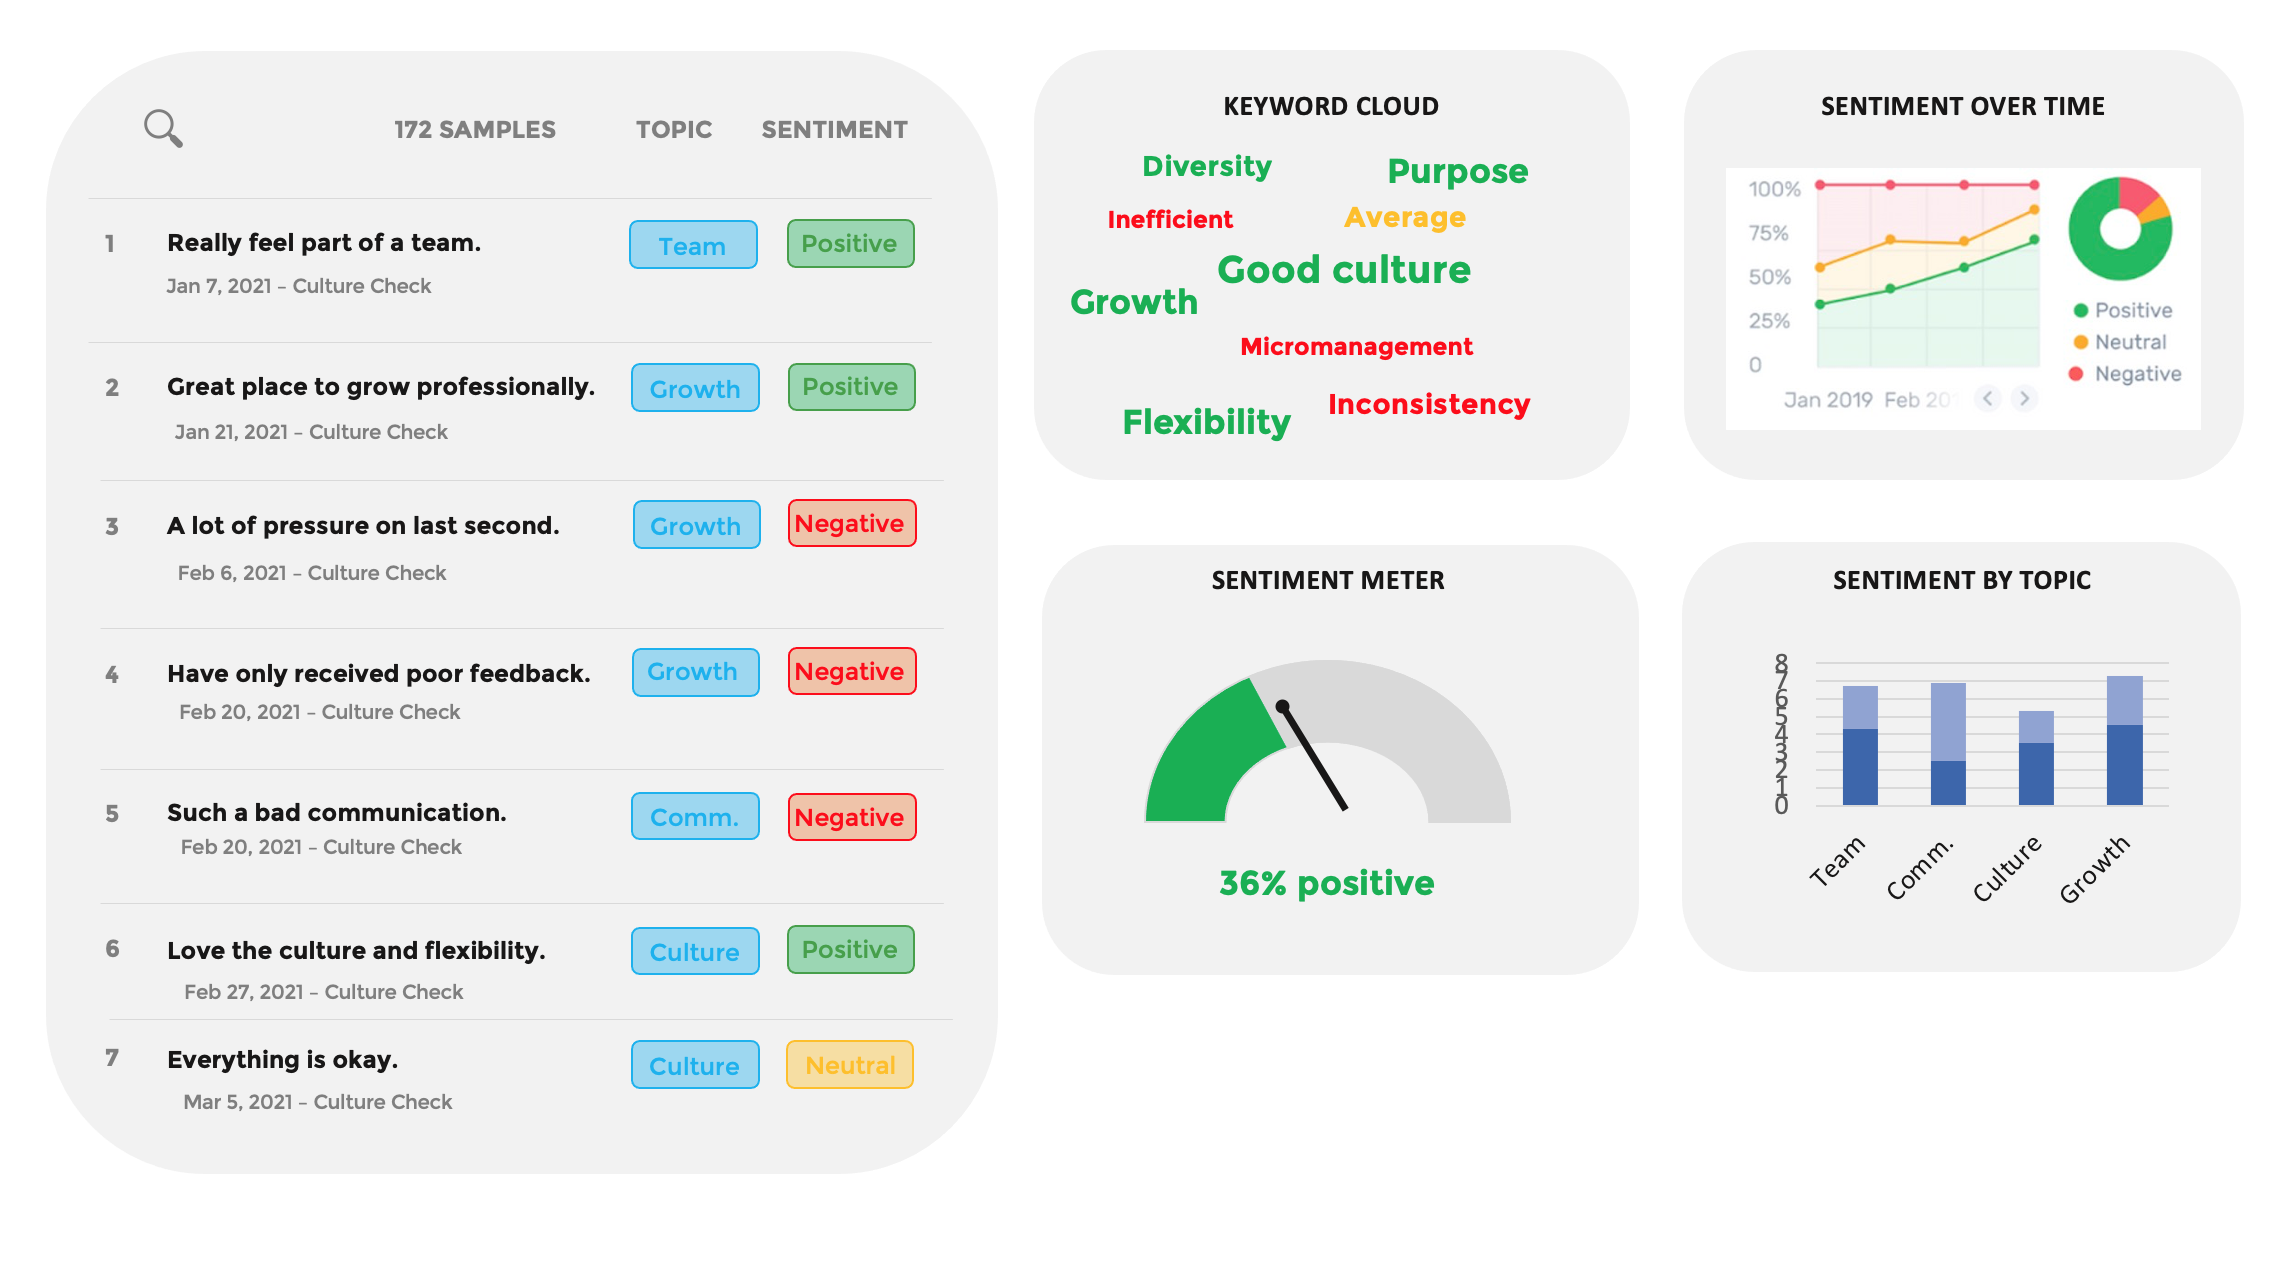
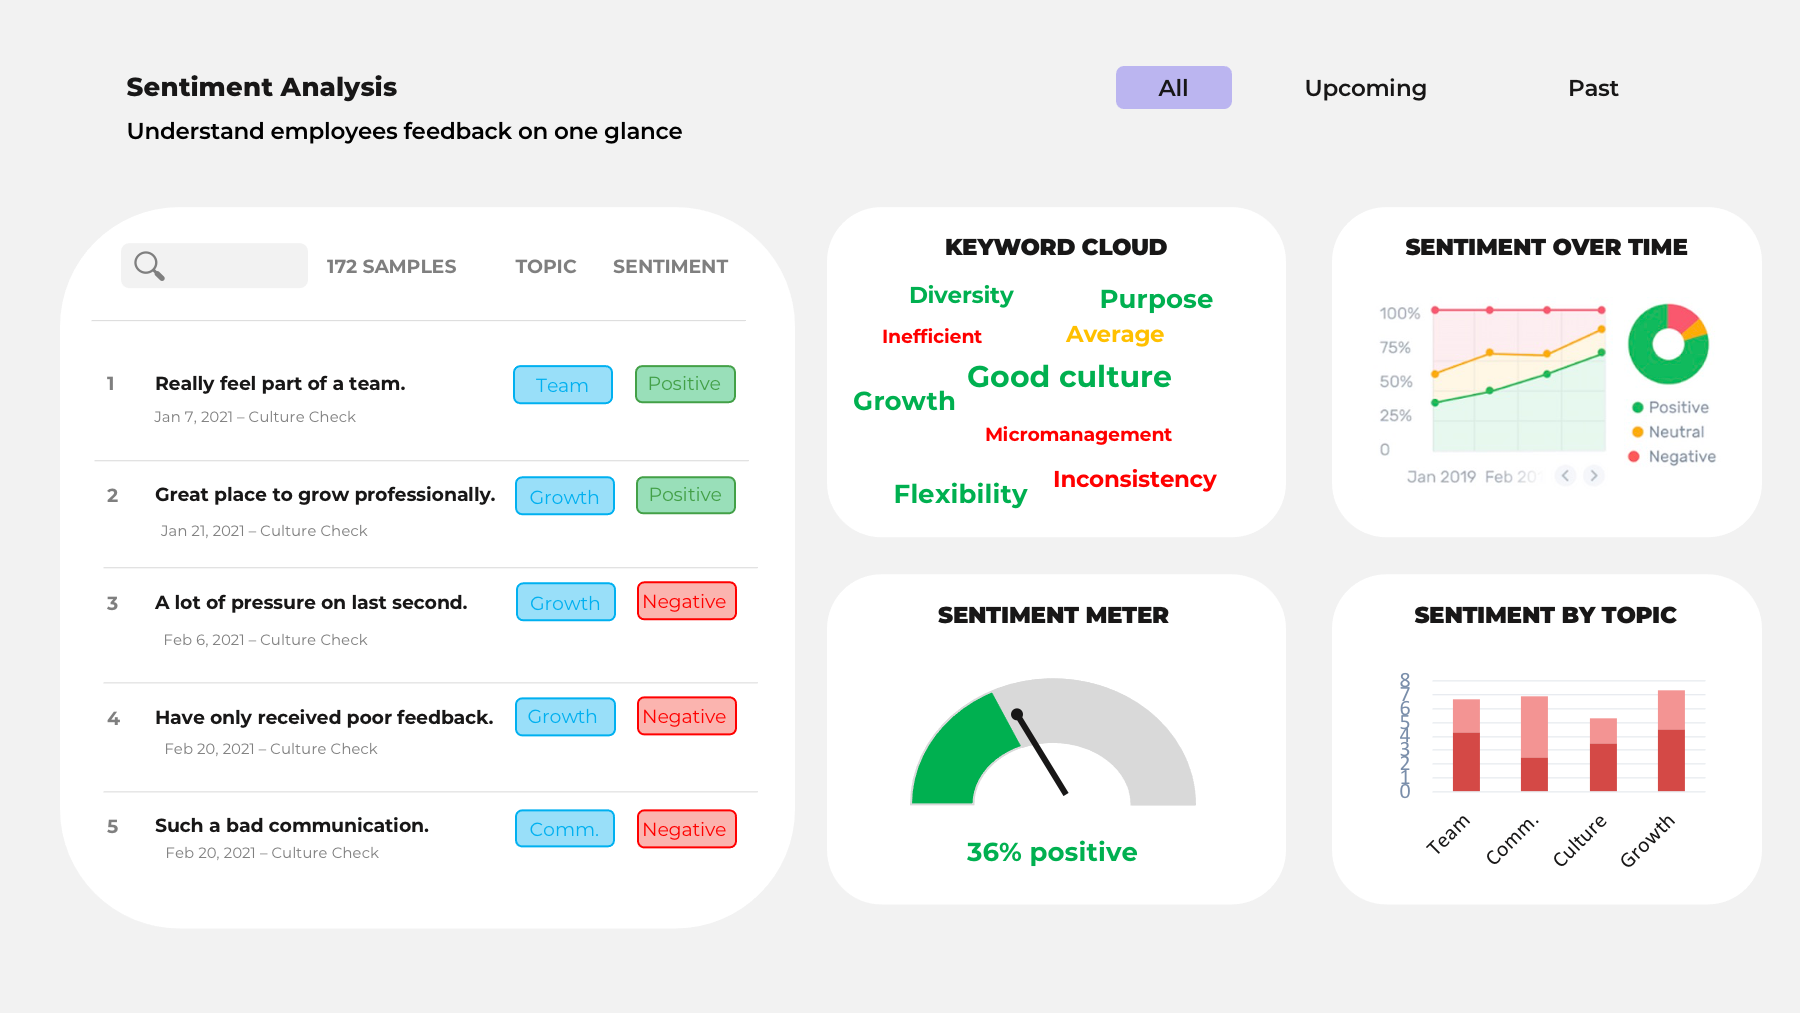
Basic production changes

diff --git a/src/pages/eventRecommendation/index.js b/src/pages/eventRecommendation/index.js
@@ -1,121 +1,145 @@
-import { useEffect, useState } from "react";
-import { Card, Col, Row, Space, Tooltip } from "antd";
-
-import {
-  LeftCircleFilled,
-  RightCircleFilled,
-  QuestionCircleOutlined,
-} from "@ant-design/icons";
-
-import {
-  getEventRecommendationSections,
-  getEventRecommendationCateogries,
-} from "actions";
-
-import EventRecommendationEventCard from "./eventCard";
-import EventRecommendationCategoryCard from "./categoryCard";
+import eventImg from "assets/images/event-recommendation.png";
 
 import "./style.scss";
 
-const PAGE_SIZE = 4;
-
 const EventRecommendation = () => {
-  const [loading, setLoading] = useState(true);
-  const [categories, setCategories] = useState([]);
-  const [
-    eventRecommendationSections,
-    setEventRecommendationSections,
-  ] = useState([]);
-  const [sectionPagination, setSectionPagination] = useState({});
-
-  useEffect(() => {
-    getEventRecommendationSections().then((response) => {
-      let pagination = {};
-      const { data } = response;
-      data.forEach((item) => {
-        pagination[item.slug] = 0;
-      });
-      setLoading(false);
-      setSectionPagination(pagination);
-      setEventRecommendationSections(data);
-    });
-
-    getEventRecommendationCateogries().then((response) => {
-      setCategories(response.data);
-    });
-  }, []);
-
-  function onPrevious(slug) {
-    if (sectionPagination[slug] !== 0) {
-      sectionPagination[slug] -= 1;
-      setSectionPagination({ ...sectionPagination });
-    }
-  }
-
-  function onNext(slug, count) {
-    const hasMore = (sectionPagination[slug] + 1) * PAGE_SIZE < count;
-    if (hasMore) {
-      sectionPagination[slug] += 1;
-      setSectionPagination({ ...sectionPagination });
-    }
-  }
 
   return (
-    <Card
-      bordered={0}
-      loading={loading}
-      className="no-padding event-recommendations max-container"
-    >
-      <div className="mb-8">
-        <Tooltip title="These are different event categories, to choose your online event from">
-          <Space size={6}>
-            <span className="text-3xl medium">Event categories</span>
-            <QuestionCircleOutlined />
-          </Space>
-        </Tooltip>
-      </div>
-      <div className="event-recommendation-categories mb-16">
-        {categories.map((item, index) => {
-          return (
-            <EventRecommendationCategoryCard category={item} key={index} />
-          );
-        })}
-      </div>
-      {eventRecommendationSections.map((section, index) => {
-        const { slug } = section;
-        const page = sectionPagination[slug];
-        const start = page * PAGE_SIZE;
-        const end = start + PAGE_SIZE;
-        const events = [...section.events];
-        return (
-          <div key={slug} className="event-recommendation-section">
-            <Row justify="space-between" className="header">
-              <Col>
-                <p className="text-3xl medium">{section.title}</p>
-              </Col>
-              <If condition={events.length > PAGE_SIZE}>
-                <Col>
-                  <Space>
-                    <LeftCircleFilled onClick={() => onPrevious(slug)} />
-                    <RightCircleFilled
-                      onClick={() => onNext(slug, events.length)}
-                    />
-                  </Space>
-                </Col>
-              </If>
-            </Row>
-            <div className="mt-12 event-sections">
-              {events.slice(start, end).map((item, index) => {
-                return (
-                  <EventRecommendationEventCard event={item} key={index} />
-                );
-              })}
-            </div>
+    <div className="event-recommendation-page">
+      <div className="body">
+        <div>
+          <div className="images-list">
+            <img src={eventImg} alt="Event" />
           </div>
-        );
-      })}
-    </Card>
-  );
+        </div>
+      </div>
+    </div>
+  )
 };
 
 export default EventRecommendation;
+
+
+
+
+// import { useEffect, useState } from "react";
+// import { Card, Col, Row, Space, Tooltip } from "antd";
+
+// import {
+//   LeftCircleFilled,
+//   RightCircleFilled,
+//   QuestionCircleOutlined,
+// } from "@ant-design/icons";
+
+// import {
+//   getEventRecommendationSections,
+//   getEventRecommendationCateogries,
+// } from "actions";
+
+// import EventRecommendationEventCard from "./eventCard";
+// import EventRecommendationCategoryCard from "./categoryCard";
+
+// import "./style.scss";
+
+// const PAGE_SIZE = 4;
+
+// const EventRecommendation = () => {
+//   const [loading, setLoading] = useState(true);
+//   const [categories, setCategories] = useState([]);
+//   const [
+//     eventRecommendationSections,
+//     setEventRecommendationSections,
+//   ] = useState([]);
+//   const [sectionPagination, setSectionPagination] = useState({});
+
+//   useEffect(() => {
+//     getEventRecommendationSections().then((response) => {
+//       let pagination = {};
+//       const { data } = response;
+//       data.forEach((item) => {
+//         pagination[item.slug] = 0;
+//       });
+//       setLoading(false);
+//       setSectionPagination(pagination);
+//       setEventRecommendationSections(data);
+//     });
+
+//     getEventRecommendationCateogries().then((response) => {
+//       setCategories(response.data);
+//     });
+//   }, []);
+
+//   function onPrevious(slug) {
+//     if (sectionPagination[slug] !== 0) {
+//       sectionPagination[slug] -= 1;
+//       setSectionPagination({ ...sectionPagination });
+//     }
+//   }
+
+//   function onNext(slug, count) {
+//     const hasMore = (sectionPagination[slug] + 1) * PAGE_SIZE < count;
+//     if (hasMore) {
+//       sectionPagination[slug] += 1;
+//       setSectionPagination({ ...sectionPagination });
+//     }
+//   }
+
+//   return (
+//     <Card
+//       bordered={0}
+//       loading={loading}
+//       className="no-padding event-recommendations max-container"
+//     >
+//       <div className="mb-8">
+//         <Tooltip title="These are different event categories, to choose your online event from">
+//           <Space size={6}>
+//             <span className="text-3xl medium">Event categories</span>
+//             <QuestionCircleOutlined />
+//           </Space>
+//         </Tooltip>
+//       </div>
+//       <div className="event-recommendation-categories mb-16">
+//         {categories.map((item, index) => {
+//           return (
+//             <EventRecommendationCategoryCard category={item} key={index} />
+//           );
+//         })}
+//       </div>
+//       {eventRecommendationSections.map((section, index) => {
+//         const { slug } = section;
+//         const page = sectionPagination[slug];
+//         const start = page * PAGE_SIZE;
+//         const end = start + PAGE_SIZE;
+//         const events = [...section.events];
+//         return (
+//           <div key={slug} className="event-recommendation-section">
+//             <Row justify="space-between" className="header">
+//               <Col>
+//                 <p className="text-3xl medium">{section.title}</p>
+//               </Col>
+//               <If condition={events.length > PAGE_SIZE}>
+//                 <Col>
+//                   <Space>
+//                     <LeftCircleFilled onClick={() => onPrevious(slug)} />
+//                     <RightCircleFilled
+//                       onClick={() => onNext(slug, events.length)}
+//                     />
+//                   </Space>
+//                 </Col>
+//               </If>
+//             </Row>
+//             <div className="mt-12 event-sections">
+//               {events.slice(start, end).map((item, index) => {
+//                 return (
+//                   <EventRecommendationEventCard event={item} key={index} />
+//                 );
+//               })}
+//             </div>
+//           </div>
+//         );
+//       })}
+//     </Card>
+//   );
+// };
+
+// export default EventRecommendation;

diff --git a/src/pages/eventRecommendation/style.scss b/src/pages/eventRecommendation/style.scss
@@ -1,5 +1,24 @@
 @import "../../styles//variable.scss";
 
+
+.event-recommendation-page {
+  .ant-list-items {
+    .ant-list-item {
+      .ant-row {
+        > div:last-child {
+          font-size: 4rem;
+          text-align: right;
+        }
+      }
+    }
+  }
+  .body .images-list img {
+    width: 100%;
+    height: auto;
+  }
+}
+
+
 .event-recommendations {
   .event-recommendation-categories {
     display: grid;
@@ -22,3 +41,5 @@
     }
   }
 }
+
+

diff --git a/src/pages/sentiment/index.js b/src/pages/sentiment/index.js
@@ -1,4 +1,4 @@
-import sentimentImg from "assets/images/sentiment-purple.png";
+import sentimentImg from "assets/images/sentiment.png";
 
 import "./style.scss";
 
